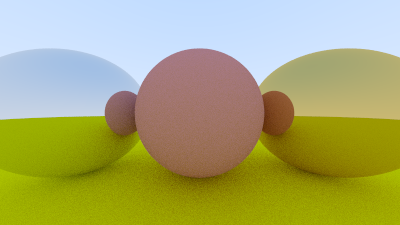
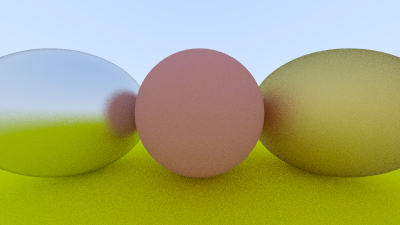
Add metal fuzziness

diff --git a/main.go b/main.go
@@ -21,16 +21,16 @@ const (
 func main() {
 	img := image.NewRGBA(image.Rect(0, 0, ImageWidth, ImageHeight))
 
-	material_ground := Lambert{Vec3{0.8, 0.8, 0.0}}
-	material_center := Lambert{Vec3{0.7, 0.3, 0.3}}
-	material_left := Metal{Vec3{0.8, 0.8, 0.8}}
-	material_right := Metal{Vec3{0.8, 0.6, 0.2}}
+	materialGround := NewLambert(Vec3{0.8, 0.8, 0.0})
+	materialCenter := NewLambert(Vec3{0.7, 0.3, 0.3})
+	materialLeft := NewMetal(Vec3{0.8, 0.8, 0.8}, 0.3)
+	materialRight := NewMetal(Vec3{0.8, 0.6, 0.2}, 1.0)
 
 	world := World{
-		NewSphere(Vec3{0.0, -100.5, -1.0}, 100.0, material_ground),
-		NewSphere(Vec3{0.0, 0.0, -1.0}, 0.5, material_center),
-		NewSphere(Vec3{-1.0, 0.0, -1.0}, 0.5, material_left),
-		NewSphere(Vec3{1.0, 0.0, -1.0}, 0.5, material_right),
+		NewSphere(Vec3{0.0, -100.5, -1.0}, 100.0, materialGround),
+		NewSphere(Vec3{0.0, 0.0, -1.0}, 0.5, materialCenter),
+		NewSphere(Vec3{-1.0, 0.0, -1.0}, 0.5, materialLeft),
+		NewSphere(Vec3{1.0, 0.0, -1.0}, 0.5, materialRight),
 	}
 
 	camera := NewCamera()

diff --git a/material.go b/material.go
@@ -4,6 +4,10 @@ type Material interface {
 	Scatter(ray Ray, record *HitRecord, attenuation *Vec3, scattered *Ray) bool
 }
 
+func NewLambert(albedo Vec3) Lambert {
+	return Lambert{albedo: albedo}
+}
+
 type Lambert struct {
 	albedo Vec3
 }
@@ -29,13 +33,18 @@ func (l Lambert) Scatter(ray Ray, record *HitRecord, attenuation *Vec3, scattere
 	return true
 }
 
+func NewMetal(albedo Vec3, fuzz float64) Metal {
+	return Metal{albedo: albedo, fuzz: fuzz}
+}
+
 type Metal struct {
 	albedo Vec3
+	fuzz   float64
 }
 
 func (m Metal) Scatter(ray Ray, record *HitRecord, attenuation *Vec3, scattered *Ray) bool {
 	reflected := ray.direction.Unit().Reflect(record.normal)
-	*scattered = Ray{record.point, reflected}
+	*scattered = Ray{record.point, Vec3RandomInUnitSphere().ScalarMul(m.fuzz).Add(reflected)}
 	*attenuation = m.albedo
 	return scattered.direction.Dot(record.normal) > 0
 }
